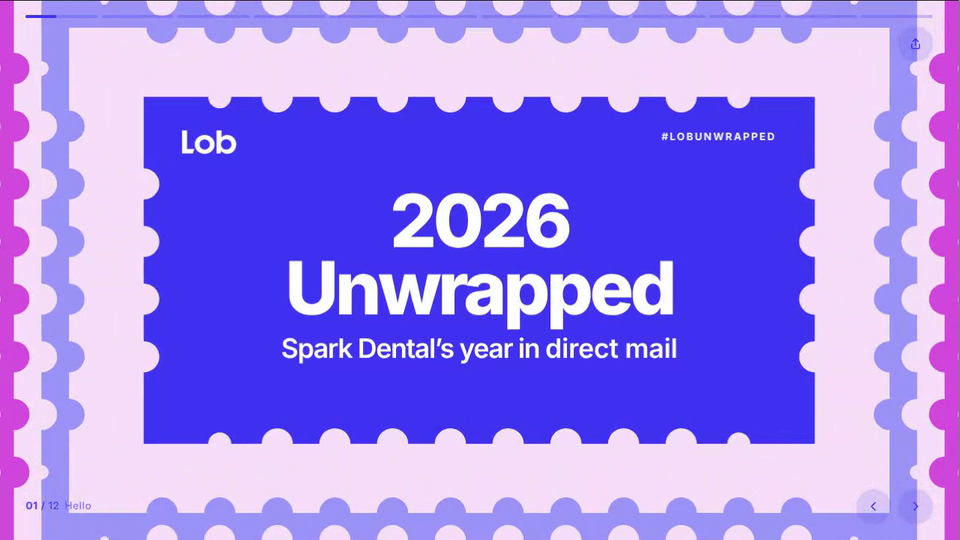
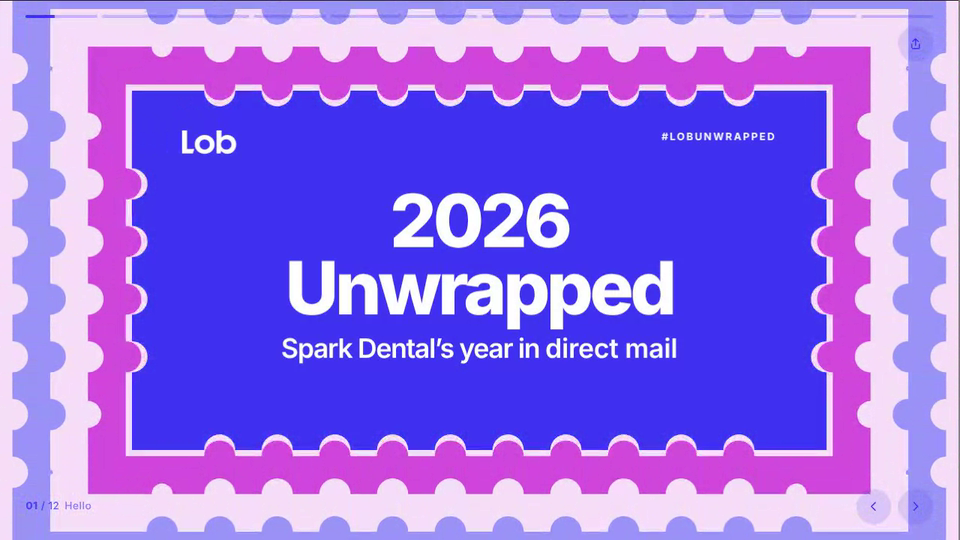
Lob Unwrapped: slide 1 radiates smoothly instead of pressing
Claude-Session: https://claude.ai/code/session_01AHeBdx8DNoKfudp6tSCb8e

diff --git a/lob-unwrapped/index.html b/lob-unwrapped/index.html
@@ -461,14 +461,11 @@ function stampRamp(c,x,y,w,h,sp,rn){var P=Math.PI,m=sp*.95,cx=x+w/2,cy=y+h/2,hw=
   c.lineTo(x,y+h);
   for(j=nv-1;j>=-nv;j--){pos=(j+.5)*sp;rr=rad(pos,hh);if(rr>.6){c.lineTo(x,cy+pos+rr);c.arc(x,cy+pos,rr,P/2,-P/2,true)}}
   c.closePath()}
-/* slide 1: a steady, gentle 1.7 s beat. The stamp lifts a little, presses in, and eases back out; at the press the stamp behind it is pushed out and the push travels outward through the rest as a smooth wave, with no pause between beats */
-function pressSeq(ctx,cols,cx,cy,hw,hh,W,Hh,T){var L=cols.length,N=11,gap=Hh*.065,sp=Hh*.107,rn=Hh*.029,ph=(T/1.7)%1,k,x,b,off,hwk,hhk,sc,u;
-  function sm(v){v=Math.max(0,Math.min(1,v));return v*v*(3-2*v)}
-  ctx.fillStyle=cols[(N+1)%L];ctx.fillRect(0,0,W,Hh);
-  for(k=N;k>=1;k--){x=(((ph-.25-.055*(k-1))%1)+1)%1;off=k*gap;if(x<.65){b=Math.sin(Math.PI*x/.65);off+=gap*.8*Math.pow(.75,k-1)*b*b}
-    hwk=hw+off;hhk=hh+off;ctx.beginPath();stampRamp(ctx,cx-hwk,cy-hhk,2*hwk,2*hhk,sp,rn);ctx.fillStyle=cols[k%L];ctx.fill()}
-  if(ph<.25){u=ph/.25;sc=u<.35?1+.012*sm(u/.35):1.012-.072*sm((u-.35)/.65)}else sc=.94+.06*sm((ph-.25)/.75);
-  ctx.beginPath();stampRamp(ctx,cx-hw*sc,cy-hh*sc,2*hw*sc,2*hh*sc,sp,rn);ctx.fillStyle='#4131f1';ctx.fill()}
+/* slide 1: stamps radiate outward from the central stamp in one smooth, continuous flow; the perforations keep their size and spacing */
+function pressSeq(ctx,cols,cx,cy,hw,hh,W,Hh,T){var L=cols.length,N=11,gap=Hh*.07,sp=Hh*.107,rn=Hh*.029,t=T/2.2,cyc=Math.floor(t),ph=t-cyc,k,off,hwk,hhk,id;
+  ctx.fillStyle=cols[(((cyc-N-1)%L)+L)%L];ctx.fillRect(0,0,W,Hh);
+  for(k=N;k>=0;k--){off=(k+ph)*gap;id=cyc-k;hwk=hw+off;hhk=hh+off;ctx.beginPath();stampRamp(ctx,cx-hwk,cy-hhk,2*hwk,2*hhk,sp,rn);ctx.fillStyle=cols[((id%L)+L)%L];ctx.fill()}
+  ctx.beginPath();stampRamp(ctx,cx-hw,cy-hh,2*hw,2*hh,sp,rn);ctx.fillStyle='#4131f1';ctx.fill()}
 function tunnel(cv,tk){var d=cv.dataset,ctx=cv.getContext('2d'),dpr=Math.min(1.5,window.devicePixelRatio||1),pats=[],sets=[],cols=d.cols.split('|').map(function(c,ci){if(/^check:/.test(c)){var set=[0,1,2,3].map(function(sd){var pt=mkPat(ctx,c,dpr,sd);pats.push(pt);return pt});sets[ci]=set;return set[0]}if(/^diag:/.test(c)){var pd=mkPat(ctx,c,dpr,0);pats.push(pd);return pd}return c}),per=+d.per||2.4,t0=performance.now(),slide=cv.closest('.slide'),art=d.at?slide.querySelector('.art'):null,stamps=d.press==='1'?slide.querySelectorAll('.burstsvg'):null,from=d.from?slide.querySelector(d.from):null;
   (function f(now){if(tk!==token)return;var s=fit(cv),t=RM?.35:(now-t0)/1000/per,cx=s[0]/2,cy=s[1]/2,o=(now/22)%(28*dpr),asp=+d.asp||1,base=0,cr=cv.getBoundingClientRect(),k=cr.width?s[0]/cr.width:1,ph=t-Math.floor(t);
     var fi=RM?0:Math.floor(now/450)%4;sets.forEach(function(st,ci){if(st)cols[ci]=st[fi]});pats.forEach(function(pt){pt.setTransform(new DOMMatrix([1,0,0,1,o,o]))});
